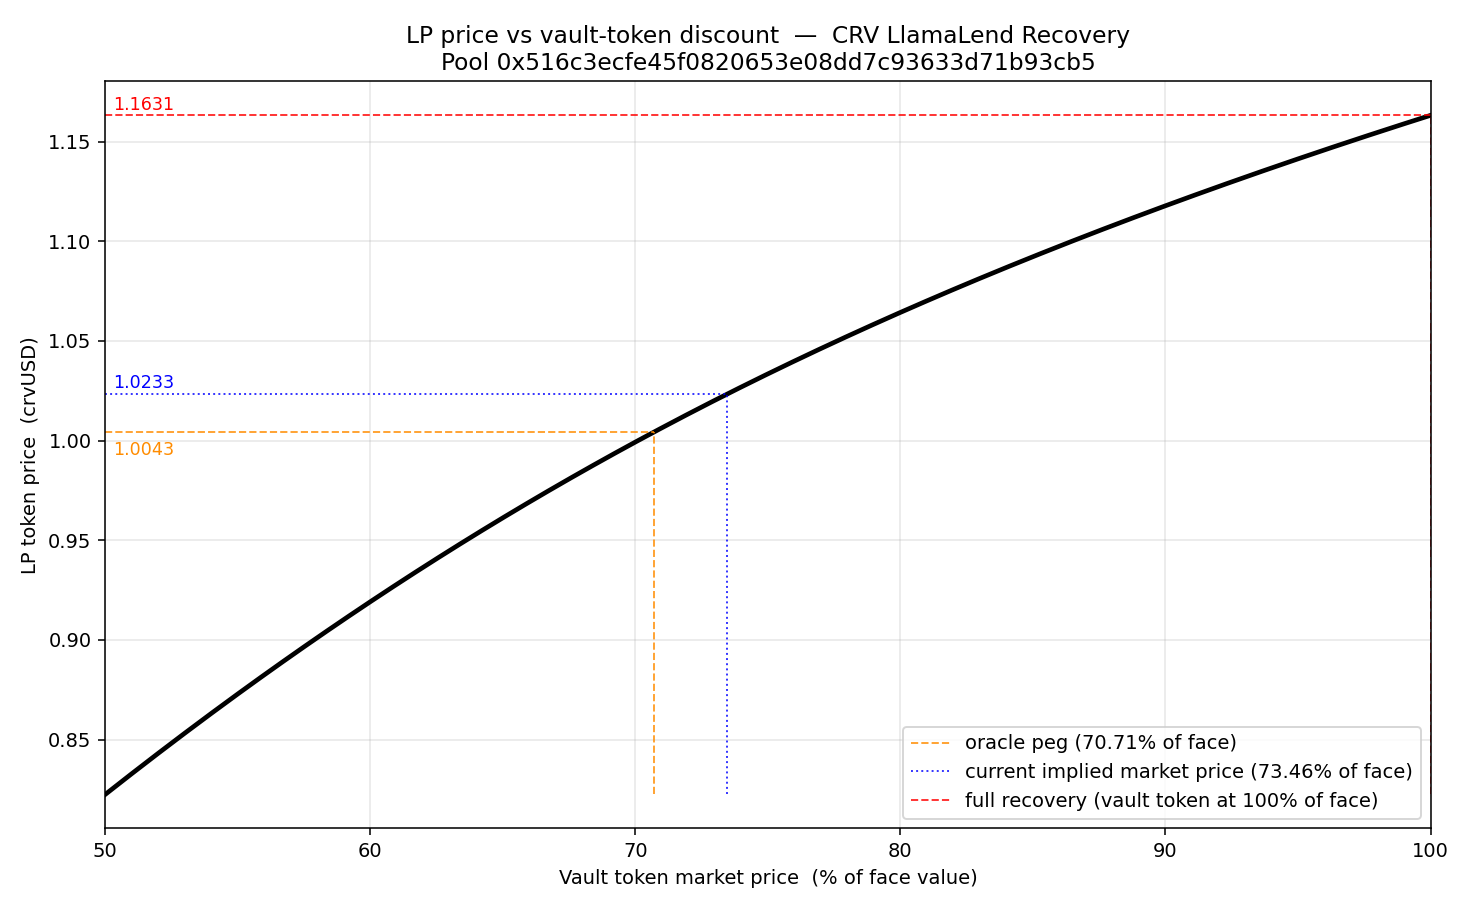
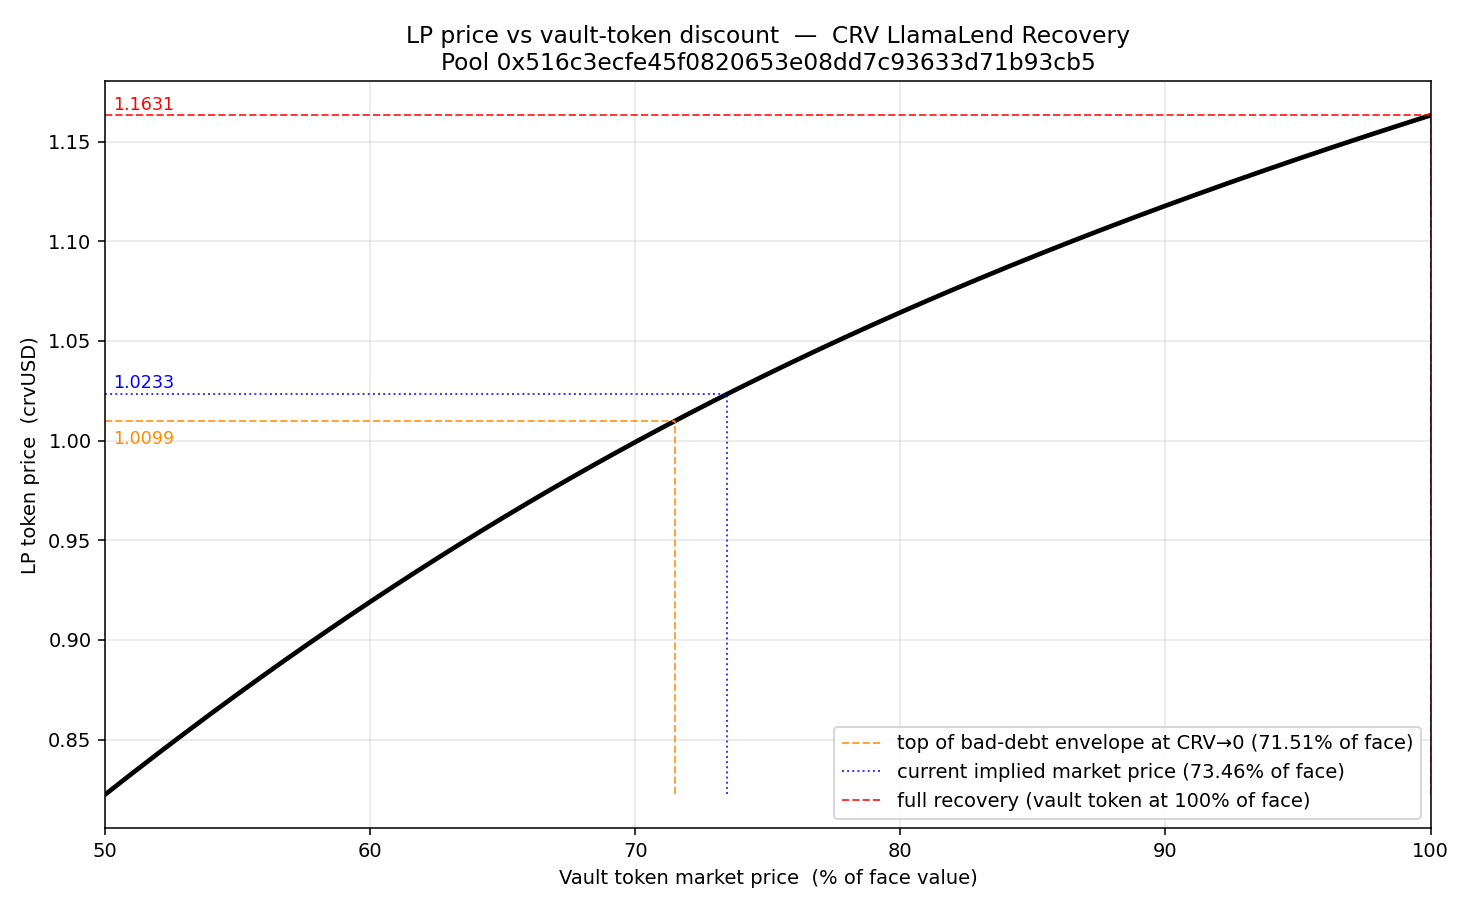
Mark bad-debt envelope top at CRV→0 instead of oracle peg
The peg is just √2 below face by construction; what matters
operationally is the highest per-position recovery rate among non-dust
insolvent positions when CRV → 0 — the leftmost height of the yellow
envelope in analyze_bad_debt.py. That comes out to 71.51% of face
(corresponding LP price 1.0099 crvUSD), computed live by reusing
analyze_bad_debt's helpers.

Changed region(s): [[0.6122, 0.8, 0.949, 0.8923], [0.0612, 0.4615, 0.4592, 0.5231]]

diff --git a/scripts/lp_price_vs_vault_price.py b/scripts/lp_price_vs_vault_price.py
@@ -33,10 +33,13 @@ elif not os.environ.get("MPLBACKEND"):
 import matplotlib.pyplot as plt
 
 from networks import NETWORK
+import analyze_bad_debt as bd
 
 
 POOL = "0x516c3ecfe45f0820653e08dd7c93633d71b93cb5"
 VAULT = "0xCeA18a8752bb7e7817F9AE7565328FE415C0f2cA"
+DUST_DEBT = 1000 * 10**18  # ignore dust positions in the bad-debt scan
+LOW_CRV_PRICE = 0.01 * 10**18  # CRV → 0 limit for "leftmost" envelope value
 
 POOL_ABI = """[
     {"name":"A","outputs":[{"type":"uint256"}],"inputs":[],"stateMutability":"view","type":"function"},
@@ -123,6 +126,39 @@ def find_xp0_for_m(m_target, D, A_true, x0_lo=None, x0_hi=None):
     return (x0_lo + x0_hi) // 2
 
 
+def top_of_envelope_at_low_crv():
+    """Highest per-position recovery rate (% of debt) across non-dust insolvent
+    positions in the bad-debt CRV market when CRV → 0. This is the leftmost
+    height of the yellow envelope in analyze_bad_debt.py."""
+    controller = boa.loads_abi(bd.CONTROLLER_ABI, name="BadDebtCtl"
+                               ).at(bd.CONTROLLER)
+    amm = boa.loads_abi(bd.AMM_ABI, name="BadDebtAmm").at(controller.amm())
+    A = amm.A()
+    p_o_now = amm.price_oracle()
+    base = amm.get_base_price()
+    def p_o_up(n):
+        return int(base * pow((A - 1) / A, n))
+    positions = controller.users_to_liquidate(0, 0)
+    best = 0.0
+    for p in positions:
+        addr, debt = p[0], p[3]
+        if debt < DUST_DEBT:
+            continue
+        ns = amm.read_user_tick_numbers(addr)
+        xs_ys = amm.get_xy(addr)
+        xs, ys = list(xs_ys[0]), list(xs_ys[1])
+        sx = sy = 0.0
+        for i, n in enumerate(range(ns[0], ns[1] + 1)):
+            pu = p_o_up(n)
+            y0 = bd.get_y0(xs[i], ys[i], p_o_now, pu, A)
+            xb, yb = bd.xy_at_price(y0, pu, LOW_CRV_PRICE, A)
+            sx += xb; sy += yb
+        value = sx + LOW_CRV_PRICE * sy / bd.WAD
+        rec = value / debt * 100.0
+        best = max(best, rec)
+    return best
+
+
 def main():
     boa.fork(NETWORK)
     boa.env.eoa = "0x0000000000000000000000000000000000000001"
@@ -185,10 +221,13 @@ def main():
     ax.plot(pct_axis, lp_prices, color="black", linewidth=2.4)
 
     pct_now = (m_now * peg / pps) * 100.0
-    pct_peg = peg / pps * 100.0
+    pct_top_envelope = top_of_envelope_at_low_crv()
     pct_full = 100.0
+    print(f"\ntop of bad-debt envelope at CRV→0 = {pct_top_envelope:.4f}% of "
+          f"face")
+
     lp_at_now = float(np.interp(pct_now, pct_axis, lp_prices))
-    lp_at_peg = float(np.interp(pct_peg, pct_axis, lp_prices))
+    lp_at_top = float(np.interp(pct_top_envelope, pct_axis, lp_prices))
     lp_at_full = float(np.interp(pct_full, pct_axis, lp_prices))
 
     ax.set_xlim(50, 100)
@@ -204,8 +243,9 @@ def main():
                     xytext=(4, ytext_offset), textcoords="offset points",
                     fontsize=9, color=color)
 
-    mark(pct_peg, lp_at_peg, "darkorange", "--",
-         f"oracle peg ({pct_peg:.2f}% of face)", ytext_offset=-12)
+    mark(pct_top_envelope, lp_at_top, "darkorange", "--",
+         f"top of bad-debt envelope at CRV→0 "
+         f"({pct_top_envelope:.2f}% of face)", ytext_offset=-12)
     mark(pct_now, lp_at_now, "blue", ":",
          f"current implied market price ({pct_now:.2f}% of face)")
     mark(pct_full, lp_at_full, "red", "--",
